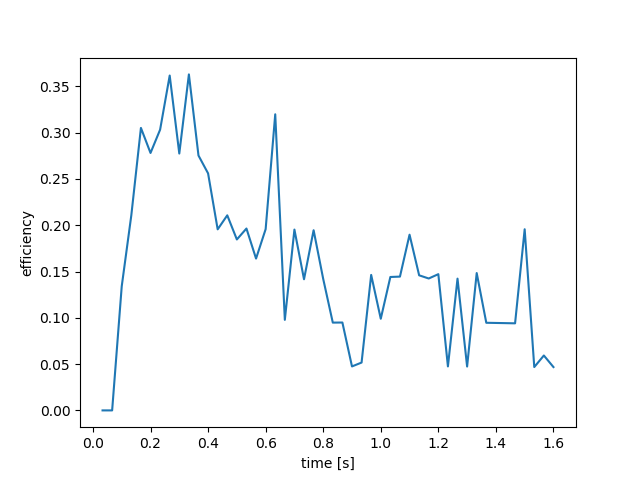
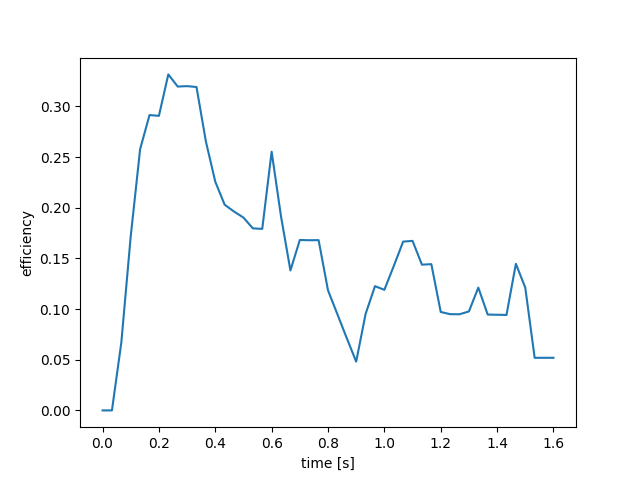
Update example 3 in docs

diff --git a/docs/source/examples/example3.rst b/docs/source/examples/example3.rst
@@ -167,7 +167,7 @@ The temporal evolution of the efficiency can be plotted by:
 .. code-block:: python
 
    import matplotlib.pyplot as plt
-   plt.plot(wheel.t[1:], eff)
+   plt.plot(wheel.t, eff)
    plt.xlabel('time [s]')
    plt.ylabel('efficiency')
    plt.show()
